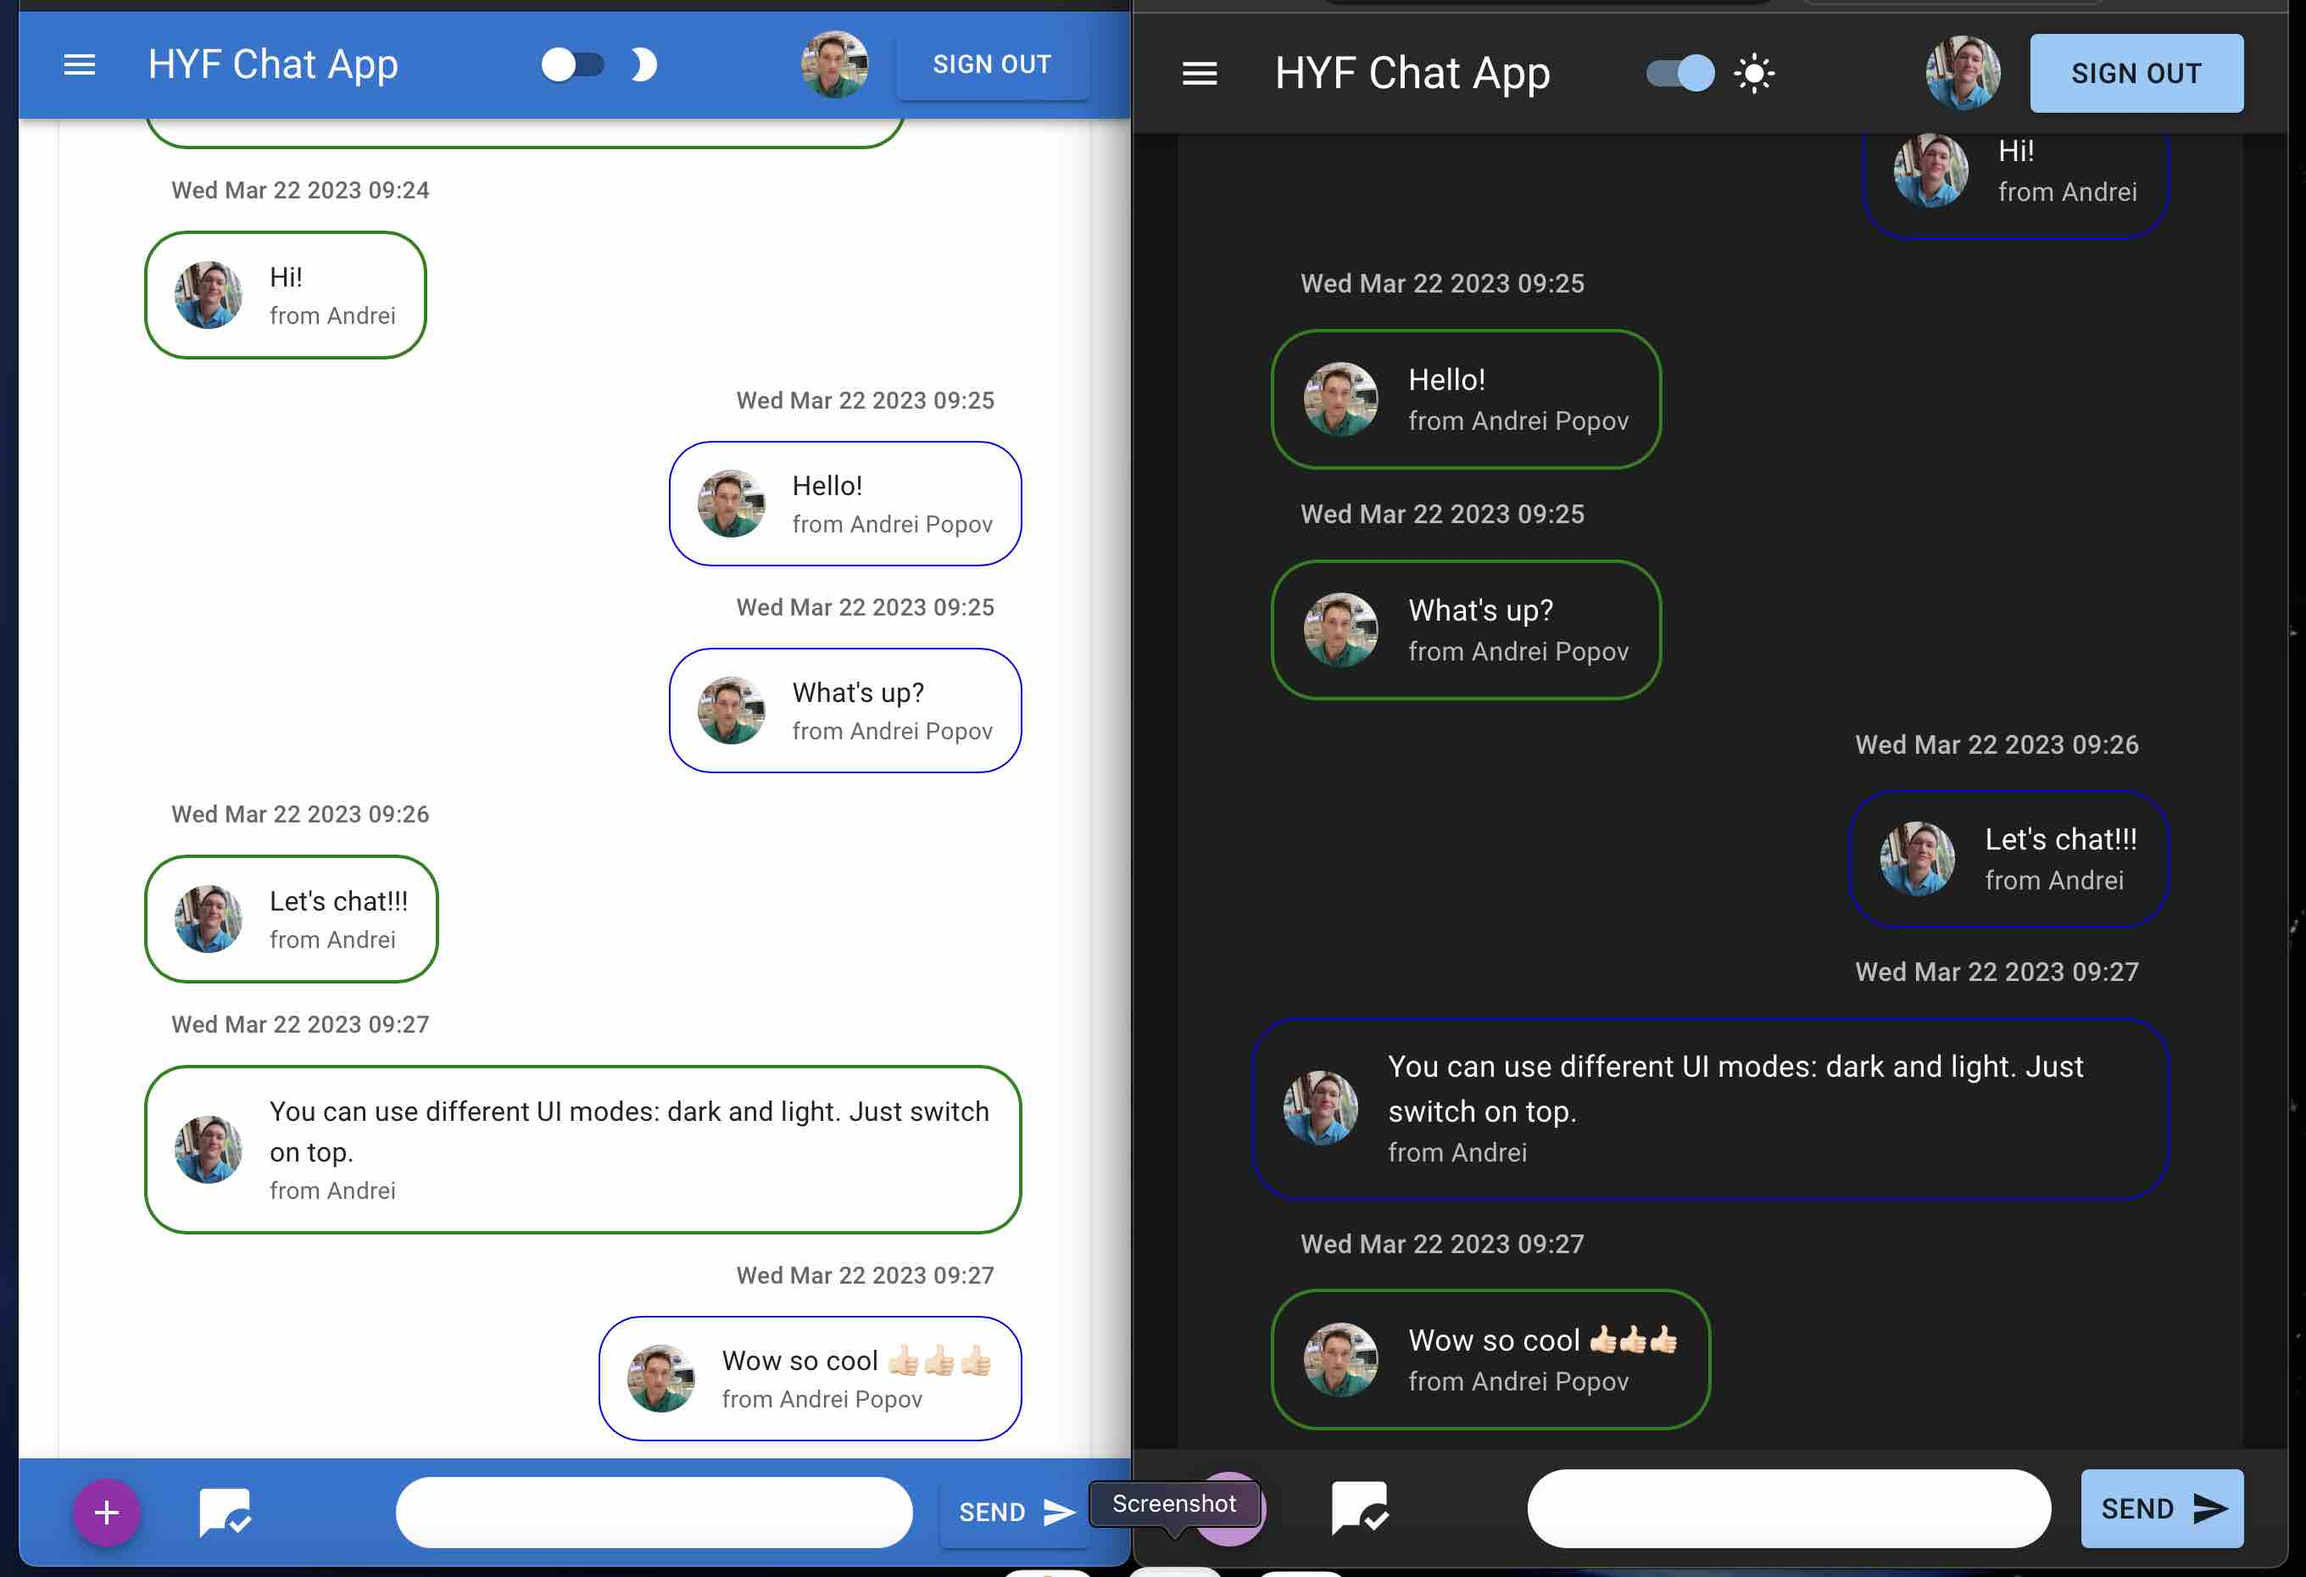
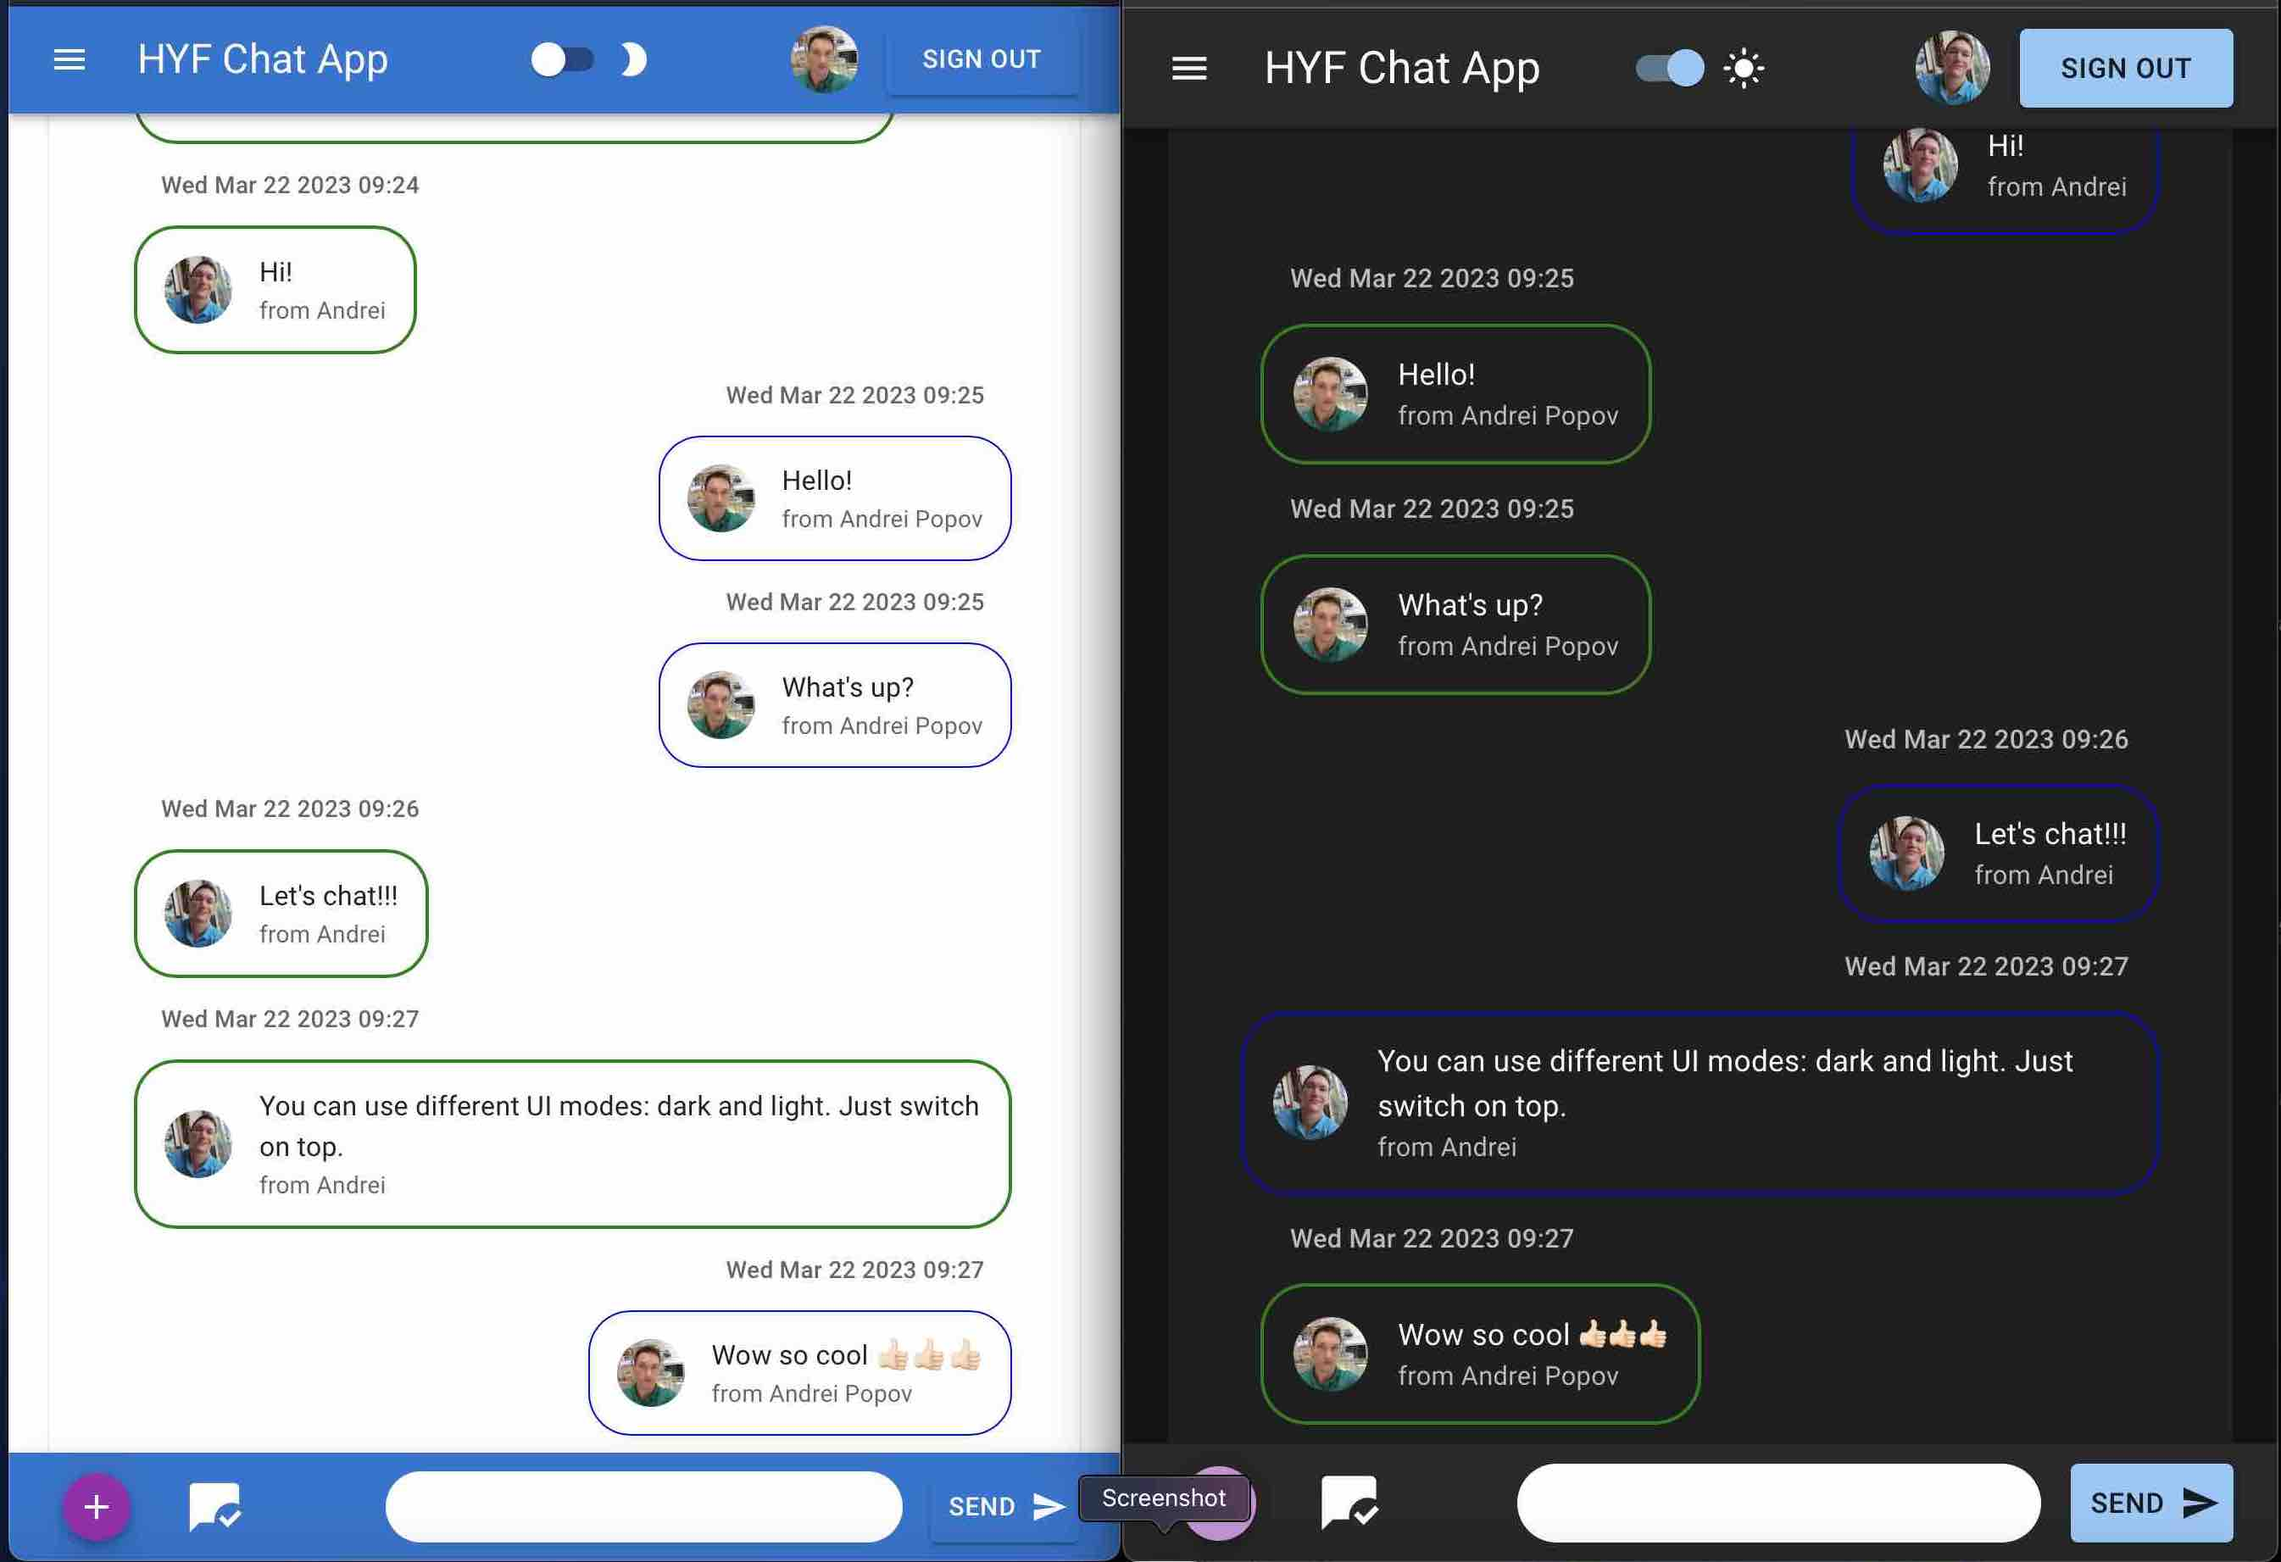
media styles

diff --git a/src/components/MessageInput.js b/src/components/MessageInput.js
@@ -1,5 +1,4 @@
 import { useState, useContext } from 'react';
-
 import Button from '@mui/material/Button';
 import Box from '@mui/material/Box';
 import TextField from '@mui/material/TextField';
@@ -32,10 +31,13 @@ const MessageInput = () => {
         }}
       >
         <form
-          className="form-input"
           noValidate
           autoComplete="off"
           onSubmit={sendMessage}
+          style={{
+            display: 'flex',
+            width: '100%',
+          }}
         >
           <TextField
             id="input-with-sx"

diff --git a/src/hooks/useSignInGoogle.js b/src/hooks/useSignInGoogle.js
@@ -5,6 +5,12 @@ import { AuthContext } from '../context/GlobalState';
 export const useSignInGoogle = () => {
   const { auth } = useContext(AuthContext);
   const provider = new GoogleAuthProvider();
-  const signIn = () => signInWithPopup(auth, provider);
+  const signIn = async () => {
+    try {
+      await signInWithPopup(auth, provider);
+    } catch (error) {
+      alert(error.message);
+    }
+  };
   return signIn;
 };

diff --git a/src/components/Navbar.js b/src/components/Navbar.js
@@ -34,9 +34,9 @@ const Navbar = () => {
               color="inherit"
               variant="h5"
               underline="none"
-              sx={{ flexGrow: 1 }}
+              sx={{ flexGrow: 1, whiteSpace: 'nowrap' }}
             >
-              HYF Chat App
+              Chat App
             </Link>
           </div>
 

diff --git a/src/App.js b/src/App.js
@@ -5,7 +5,6 @@ import { CHAT_ROUTE, LOGIN_ROUTE } from './utils/constants';
 import { AuthContext } from './context/GlobalState';
 import MainLayout from './layouts/MainLayout';
 import Loader from './components/Loader';
-import './App.css';
 
 function App() {
   const { user, loading, error } = useContext(AuthContext);

diff --git a/src/layouts/MainLayout.js b/src/layouts/MainLayout.js
@@ -4,11 +4,11 @@ import Navbar from '../components/Navbar';
 
 const MainLayout = () => {
   return (
-    <>
+    <div className="main-layout">
       <Navbar />
       <Outlet />
       <FooterBar />
-    </>
+    </div>
   );
 };
 

diff --git a/src/index.css b/src/index.css
@@ -4,3 +4,9 @@
   box-sizing: border-box;
   font-family: 'Roboto';
 }
+
+@media only screen and (max-width: 600px) {
+  * {
+    font-size: 75%;
+  }
+}

diff --git a/README.md b/README.md
@@ -4,7 +4,7 @@ This is a simple chat web application built using React and Firebase. The app al
 
 ## Screenshot
 
-![Chats open in Safari and Chrome examples](./src/assets/Screenshot.jpg)
+![Chats screenshots from Safari and Chrome](./src/assets/Screenshot.jpg)
 
 ## Features
 
@@ -24,7 +24,7 @@ This is a simple chat web application built using React and Firebase. The app al
 1. Clone the repository: `git clone https://github.com/yourusername/your-repo.git`
 2. Install dependencies: `npm install`
 3. Create a Firebase project and enable Firebase Authentication and Firestore.
-4. Add your Firebase config object to `src/firebase.js`.
+4. Add your Firebase config .env file and using variables from `src/utils/firebase.js`.
 5. Start the app: `npm start`
 
 ## Technologies Used
